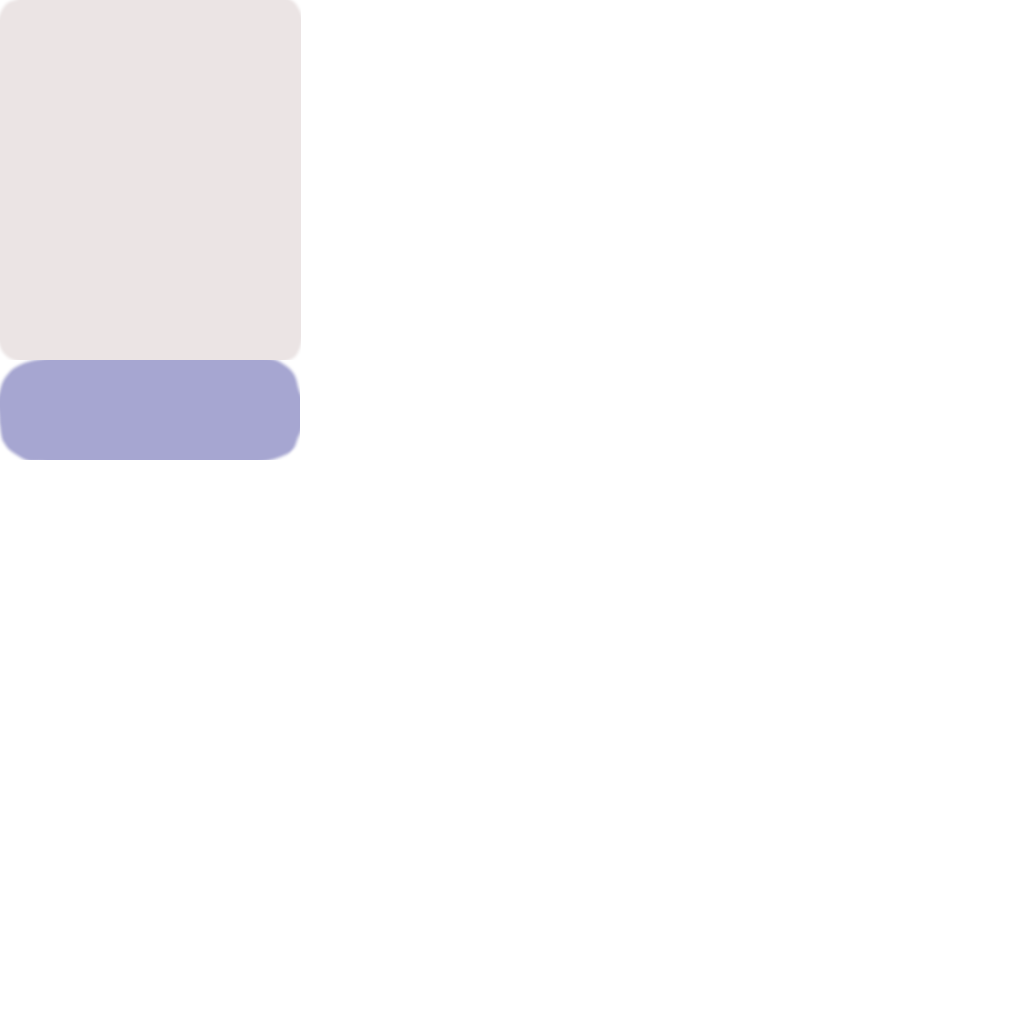
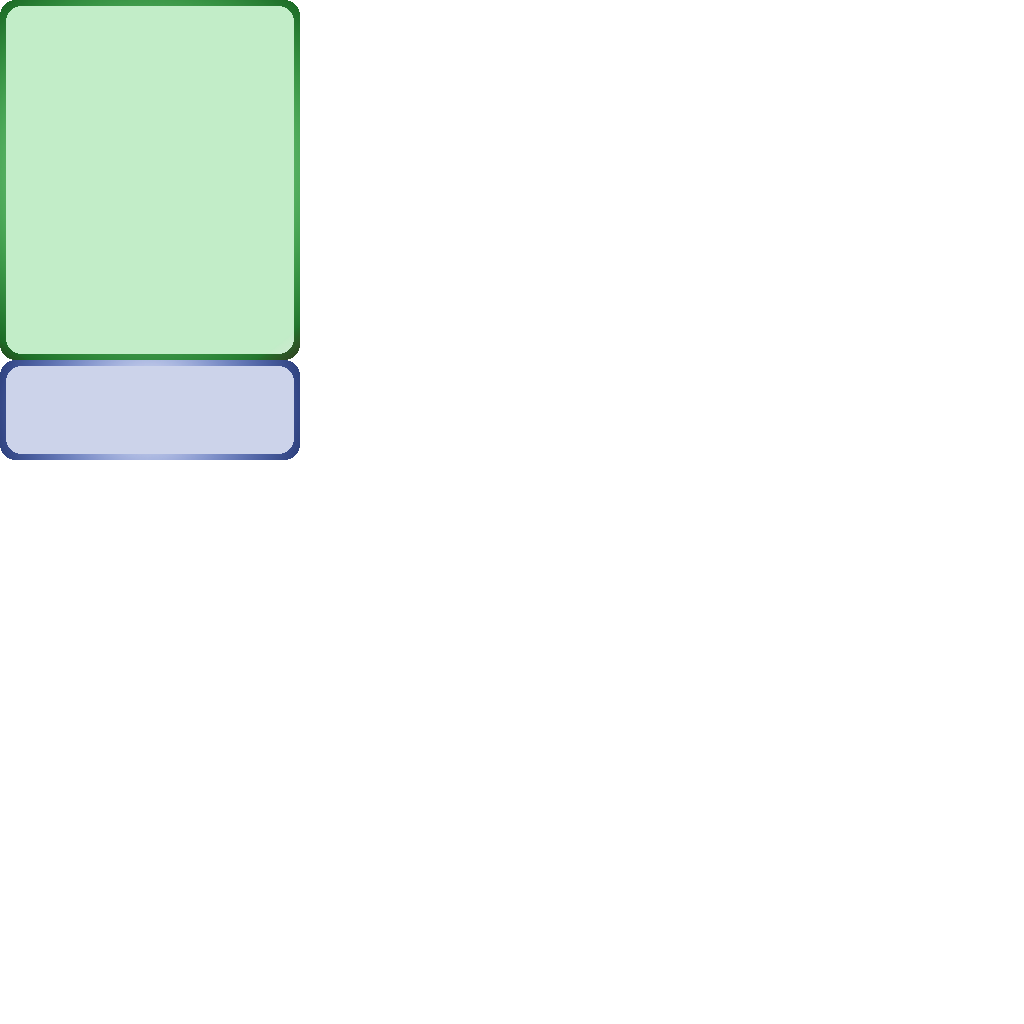
セーブ、ロードをマップ選択実装後に対応。 UI画像の更新。

Changed region(s): [[0.0, 0.0, 0.3125, 0.4688]]

diff --git a/core/src/main/java/com/apple/pawn/GameScreen.java b/core/src/main/java/com/apple/pawn/GameScreen.java
@@ -172,6 +172,7 @@ public class GameScreen implements Screen {
 	}
 
 	public void load(final SaveData sd) {
+		board.initialize(manager,sd.mapNo);
 		playerManager.load(sd.aPlayer);
 		timer = sd.timer;
 		goalNo = sd.goalNo;
@@ -203,7 +204,7 @@ public class GameScreen implements Screen {
 			game.setScreen(new TitleScreen(game));
 		}
 		if (Gdx.input.isKeyPressed(Input.Keys.F5)) {
-			saveData.setGameState(timer, goalNo, sequenceNo, turnPlayerNo);
+			saveData.setGameState(timer, gameSetting.getStageNo(), goalNo, sequenceNo, turnPlayerNo);
 			fileIO.save();
 		}
 		if (Gdx.input.isKeyPressed(Input.Keys.F6)) {
@@ -440,7 +441,7 @@ public class GameScreen implements Screen {
 		}
 
 		if(sequenceNo == Sequence.ACTION_SELECT.no +3) {
-			saveData.setGameState(timer, goalNo, sequenceNo, turnPlayerNo);
+			saveData.setGameState(timer, gameSetting.getStageNo(), goalNo, sequenceNo, turnPlayerNo);
 			fileIO.save();
 			sequenceNo = Sequence.ACTION_SELECT.no;
 		}

diff --git a/core/src/main/java/com/apple/pawn/BoardSurface.java b/core/src/main/java/com/apple/pawn/BoardSurface.java
@@ -27,6 +27,7 @@ public class BoardSurface {
 
     private Sprite backSprite;
     private final Array<Square> aSquare;
+    private int mapNo;
 
     static {
         MAP_COORDINATE = new Array<>();
@@ -46,6 +47,7 @@ public class BoardSurface {
 
     public void initialize(AssetManager manager, int mapNo) {
 
+        this.mapNo = mapNo;
         ObjectMapper objectMapper = new ObjectMapper();
         try {
             JsonNode mapJson = objectMapper.readTree(Gdx.files.local("assets/"+MAPDATA_NAME[mapNo]).file());
@@ -108,6 +110,10 @@ public class BoardSurface {
         if(squareNo <= aSquare.size-1) s = aSquare.get(squareNo);
         else s = aSquare.peek();
         return s.getPos();
+    }
+
+    public int getMapNo() {
+        return mapNo;
     }
 
     public int getSquareCount() {

diff --git a/core/src/main/java/com/apple/pawn/SaveData.java b/core/src/main/java/com/apple/pawn/SaveData.java
@@ -16,6 +16,8 @@ public class SaveData {
     @JsonProperty
     public float timer;
     @JsonProperty
+    public int mapNo;
+    @JsonProperty
     public int goalNo;
     @JsonProperty
     public int sequenceNo;					// シークエンス番号
@@ -36,8 +38,9 @@ public class SaveData {
         this.aPlayer = aPlayer;
     }
 
-    public void setGameState(float timer, int goalNo, int sequenceNo, int turnPlayerNo) {
+    public void setGameState(float timer, int mapNo, int goalNo, int sequenceNo, int turnPlayerNo) {
         this.timer = timer;
+        this.mapNo = mapNo;
         this.goalNo = goalNo;
         this.sequenceNo = sequenceNo;
         this.turnPlayerNo = turnPlayerNo;
